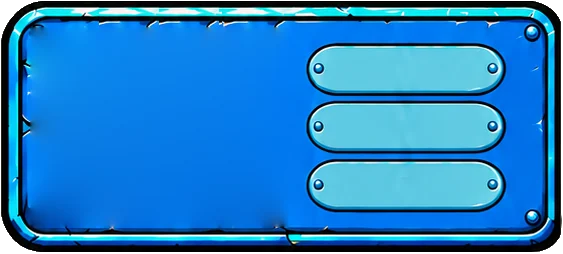
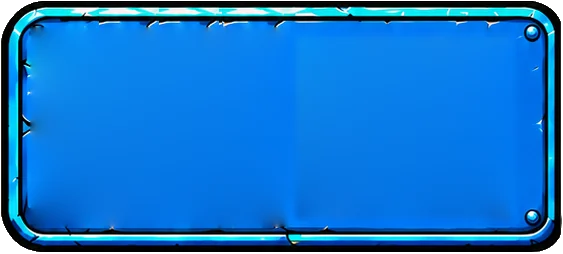
Cartoon : historique en 3 grosses bulles rondes à contour noir, panneau sans pilules
Claude-Session: https://claude.ai/code/session_01Agff8va3qxXu2Vw43sb54j

Changed region(s): [[0.5133, 0.1654, 0.9059, 0.8543]]

diff --git a/index.html b/index.html
@@ -4214,6 +4214,18 @@ html.cartoon body #game#game.sk.p2:not(.pn):not(.bcg) #grid .num.num.bnc:not(.ng
 /* boutons du bas : aucune animation / ombre héritée (Safari applique les animations malgré !important) */
 html.cartoon body #game#game.sk.p2:not(.pn):not(.bcg) footer>button,html.cartoon body #game#game.sk.p2:not(.pn):not(.bcg) footer>button.armed{animation:none!important;-webkit-animation:none!important;text-shadow:none!important;-webkit-text-stroke:0!important;box-shadow:none!important;filter:none!important;outline:0!important}
 html.cartoon body #game#game.sk.p2:not(.pn):not(.bcg) footer>button::before,html.cartoon body #game#game.sk.p2:not(.pn):not(.bcg) footer>button::after{animation:none!important;transition:none!important;content:none!important;display:none!important}
+/* historique : 3 bulles rondes en triangle (2 en haut, 1 en bas), contour noir épais */
+html.cartoon body #game#game.sk.p2:not(.pn):not(.bcg) #scores>.sc.act>.pills{left:0!important;top:0!important;width:100%!important;height:100%!important;display:block!important}
+html.cartoon body #game#game.sk.p2:not(.pn):not(.bcg) #scores>.sc.act .pill{position:absolute!important;width:calc(102*var(--s))!important;height:calc(102*var(--s))!important;margin:0!important;border-radius:50%!important;translate:-50% -50%!important;
+  box-shadow:inset 0 0 0 calc(7*var(--s)) #0b1220,0 calc(5*var(--s)) 0 rgba(0,0,0,.3)!important;font-size:calc(37*var(--s))!important;letter-spacing:-.02em!important}
+html.cartoon body #game#game.sk.p2:not(.pn):not(.bcg) #scores>.sc.act .pill:nth-child(1){left:calc(357*var(--s))!important;top:calc(80*var(--s))!important}
+html.cartoon body #game#game.sk.p2:not(.pn):not(.bcg).curR #scores>.sc.act .pill:nth-child(1){left:calc(206*var(--s))!important}
+html.cartoon body #game#game.sk.p2:not(.pn):not(.bcg) #scores>.sc.act .pill:nth-child(2){left:calc(469*var(--s))!important;top:calc(80*var(--s))!important}
+html.cartoon body #game#game.sk.p2:not(.pn):not(.bcg).curR #scores>.sc.act .pill:nth-child(2){left:calc(94*var(--s))!important}
+html.cartoon body #game#game.sk.p2:not(.pn):not(.bcg) #scores>.sc.act .pill:nth-child(3){left:calc(413*var(--s))!important;top:calc(172*var(--s))!important}
+html.cartoon body #game#game.sk.p2:not(.pn):not(.bcg).curR #scores>.sc.act .pill:nth-child(3){left:calc(150*var(--s))!important}
+html.cartoon body #game#game.sk.p2:not(.pn):not(.bcg) #scores>.sc:not(.act)>.pills{gap:calc(8*var(--s))!important;left:calc(-4*var(--s))!important;top:calc(192*var(--s))!important;width:auto!important}
+html.cartoon body #game#game.sk.p2:not(.pn):not(.bcg) #scores>.sc:not(.act) .pill{width:calc(66*var(--s))!important;height:calc(66*var(--s))!important;border-radius:50%!important;box-shadow:inset 0 0 0 calc(5*var(--s)) #0b1220,0 calc(4*var(--s)) 0 rgba(0,0,0,.25)!important;font-size:calc(24*var(--s))!important}
 /* bas : une planche de 6 états (normal, double, triple, spew, menu, annuler) — un seul affiché, même place et même taille */
 html.cartoon body #game#game.sk.p2:not(.pn):not(.bcg) footer{position:absolute!important;left:calc(var(--ox) + calc(16*var(--s)))!important;right:auto!important;top:calc(var(--oy) + 1478*var(--s))!important;bottom:auto!important;width:calc(820*var(--s))!important;height:calc(354*var(--s))!important;margin:0!important;padding:0!important;
   display:block!important;background:url(art/k5/ft_n.webp) center/100% 100% no-repeat!important;box-shadow:none!important;border:0!important;outline:0!important;border-radius:0!important;overflow:visible!important;transform:none!important;translate:none!important;aspect-ratio:auto!important;filter:none!important}

diff --git a/sw.js b/sw.js
@@ -1,7 +1,7 @@
 /* Loubard Fléchard — hors ligne + mises à jour automatiques.
    Page : réseau d'abord (version la plus récente), cache si pas de réseau.
    Change VERSION à chaque mise à jour publiée. */
-const VERSION='lf-177';
+const VERSION='lf-178';
 const FILES=['./','index.html','manifest.json','icon-180.png','icon-192.png','icon-512.png'];
 self.addEventListener('install',e=>{e.waitUntil(caches.open(VERSION)
   .then(c=>Promise.all(FILES.map(f=>fetch(f,{cache:'reload'}).then(r=>r.ok&&c.put(f,r)).catch(()=>{}))))
